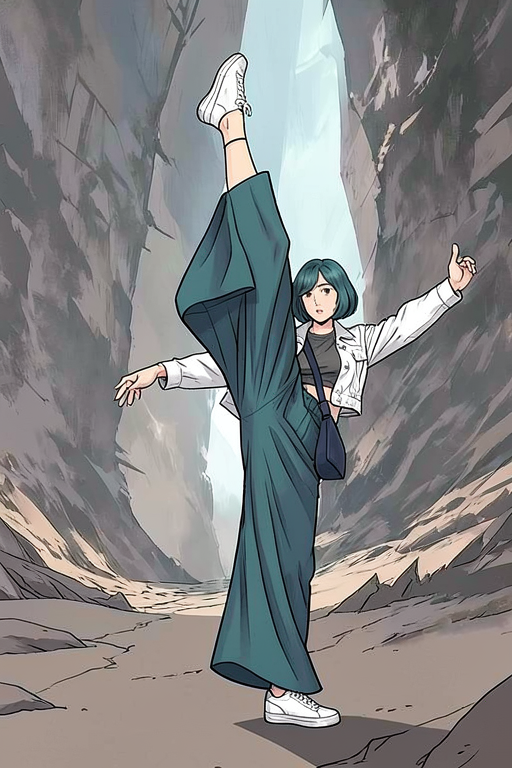
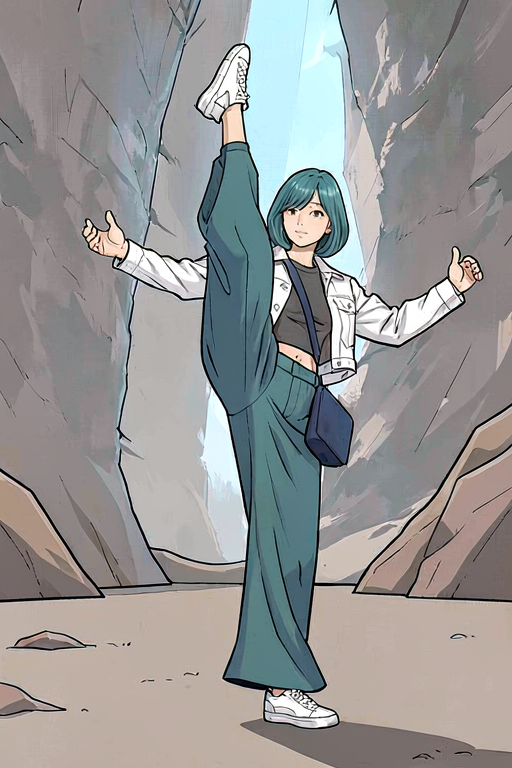
docs: approve 50-step flux character cut

diff --git a/docs/assets/part-07/chapter-05/p7_5_3_flux2_storyboard_character.py b/docs/assets/part-07/chapter-05/p7_5_3_flux2_storyboard_character.py
@@ -59,7 +59,7 @@ def parse_args() -> argparse.Namespace:
     parser.add_argument("--cache-dir", type=Path, default=DEFAULT_CACHE_DIR)
     parser.add_argument("--output-dir", type=Path, default=DEFAULT_OUTPUT_DIR)
     parser.add_argument("--seed", type=int, default=5413)
-    parser.add_argument("--steps", type=int, default=8)
+    parser.add_argument("--steps", type=int, default=50)
     parser.add_argument("--width", type=int, default=512)
     parser.add_argument("--height", type=int, default=768)
     return parser.parse_args()

diff --git a/management/release-notes/sections/part-07/P7-5.3.md b/management/release-notes/sections/part-07/P7-5.3.md
@@ -5,7 +5,7 @@
 
 ### v2026.08.07
 
-- 승인 구조 정리: 텍스트 전용 Animagine XL 4.0 스토리보드(`832×1216`, 28 step, CFG 5.0, seed `5413`)와 그 파생 guide를 장면 기준으로 승인했다. 이어 Apache-2.0 FLUX.2 Klein 4B에 이 스토리보드·P7-5.2 얼굴·전신 복장 기준을 세 이미지 입력으로 주고, `512×768`·8 step·seed `5413`·sequential CPU offload에서 생성한 캐릭터 컷을 승인했다(48.8초, peak 3.37 GiB). 협곡·열린 바닥·수직 든 다리·지지발·두 팔, 턱선 길이 청록 단발, 흰 재킷·청록 넓은 바지·흰 운동화·남색 가방이 함께 읽힌다. 든 다리의 드러난 발목은 넓은 바지의 자연스러운 동작 연출로 수용했다. 승인 PNG와 실행 JSON만 공개 자산으로 남기고, 4-step 비교와 미승인 ControlNet·Posecode·SCAIL·참조 후보 자산은 제거했다. 그 실패·보류 판단은 아래 항목의 기록으로만 유지한다.
+- 승인 갱신: 텍스트 전용 Animagine XL 4.0 스토리보드(`832×1216`, 28 step, CFG 5.0, seed `5413`)와 그 파생 guide를 장면 기준으로 승인했다. 이어 Apache-2.0 FLUX.2 Klein 4B에 이 스토리보드·P7-5.2 얼굴·전신 복장 기준을 세 이미지 입력으로 주고, `512×768`·50 step·seed `5413`·sequential CPU offload에서 생성한 캐릭터 컷을 최종 승인했다(285.8초, peak 3.36 GiB). 협곡·열린 바닥·수직 든 다리·지지발·두 팔, 턱선 길이 청록 단발, 흰 재킷·청록 넓은 바지·흰 운동화·남색 가방이 함께 읽힌다. 8-step 승인본과 비교해 선화·얼굴·단발·가방·넓은 바지 형태가 더 안정적이어서 교체했으며, 든 다리의 드러난 발목은 넓은 바지의 자연스러운 동작 연출로 수용했다. 승인 PNG와 실행 JSON만 공개 자산으로 남기고, 4-step·8-step 비교와 미승인 ControlNet·Posecode·SCAIL·참조 후보 자산은 제거했다. 그 실패·보류 판단은 아래 항목의 기록으로만 유지한다.
 - SCAIL 로컬 실행 기록: SCAIL-Preview Q2 GGUF와 CPU offload를 8 GB GPU에서 `352×512`·5 frame·4 step으로 실제 실행했다. model patch·text encode·sampling·VAE decode가 38.78초, peak allocated 6.09 GiB·reserved 6.31 GiB로 완료되어 실행 가능성만 확인했다. 다만 전신 기준 이미지와 정지 골격 한 장(공식 pose 영상 아님)의 축약 입력에서는 협곡·수직 든 다리·수평 양팔이 재현되지 않아 미통과였다. PNG 다섯 장은 삭제하고 입력 기록만 남겼다. 공식 `512p`·긴 pose 영상 조건과 다르므로 모델 일반 실패로 단정하지 않되, 현 8 GB 축약 계약은 승인하지 않고 재실행하지 않는다. 후속은 리그·skin·헤어·의상 mesh를 갖춘 3D 자산처럼 입력 계약이 달라질 때만 검토한다.
 - 경로 경고 정리: 본문이 현재 추적 자산에 없는 `p7-5-3-guide-adherence-benchmark/` 폴더를 상대 링크로 가리키던 문장을 제거하고, 공개 자산에는 승인 스토리보드·파생 guide PNG만 유지한다는 설명으로 바꿨다.
 - 반복 재실험 경고: 본문 체크리스트에 미통과 `backbone + guide 종류/출처 + 해상도 계약`을 seed·step·강도만 바꿔 반복하지 않도록 명시했다. 재개에는 실패 원인을 바꿀 새 가설과 입력 계약 변화, 그리고 실행 기록의 차이 설명이 필요하다.

diff --git a/docs/parts/part-07/chapter-05/section-03.md b/docs/parts/part-07/chapter-05/section-03.md
@@ -44,7 +44,7 @@ FLUX.2 Klein 4B에는 다음 세 이미지를 순서대로 넣는다.
 | 얼굴 기준 | 청록 단발과 얼굴 특징 |
 | 전신 복장 기준 | 흰 재킷, 청록 넓은 바지, 흰 운동화, 남색 크로스백 |
 
-이 계약에서 `512 x 768`, 8 step, seed `5413`, sequential CPU offload로 만든 결과를 사람 검수로 승인했다. 긴 뒷머리 대신 턱선 길이 단발이 읽히며, 들어 올린 다리의 넓은 바지 주름과 드러난 발목은 동작에 따른 자연스러운 연출로 유지한다. 협곡·지지발·두 팔·수직으로 든 다리도 장면 기준과 함께 읽힌다.
+이 계약에서 `512 x 768`, 50 step, seed `5413`, sequential CPU offload로 만든 결과를 사람 검수로 승인했다. 긴 뒷머리 대신 턱선 길이 단발이 읽히며, 들어 올린 다리의 넓은 바지 주름과 드러난 발목은 동작에 따른 자연스러운 연출로 유지한다. 협곡·지지발·두 팔·수직으로 든 다리도 장면 기준과 함께 읽힌다.
 
 ![승인한 FLUX.2 Klein 4B 캐릭터 컷](../../../assets/part-07/chapter-05/p7-5-3-flux2-klein-storyboard-character-approved.png)
 
@@ -53,10 +53,10 @@ FLUX.2 Klein 4B에는 다음 세 이미지를 순서대로 넣는다.
 ```bash
 python docs/assets/part-07/chapter-05/p7_5_3_flux2_storyboard_character.py \
   --cache-dir .tmp/p7-5-3-flux2-klein-cache \
-  --steps 8 --seed 5413
+  --steps 50 --seed 5413
 ```
 
-실행 기록에는 입력 경로, prompt, seed, 해상도, step, 실행 시간, peak VRAM을 남긴다. 이 승인 표본은 48.8초, peak `3.37 GiB`였다. 다른 카메라·동작·얼굴 방향에서 같은 수준의 일관성이 자동으로 보장되는 것은 아니므로, 컷마다 다시 검수한다.
+실행 기록에는 입력 경로, prompt, seed, 해상도, step, 실행 시간, peak VRAM을 남긴다. 이 승인 표본은 285.8초, peak `3.36 GiB`였다. 다른 카메라·동작·얼굴 방향에서 같은 수준의 일관성이 자동으로 보장되는 것은 아니므로, 컷마다 다시 검수한다.
 
 ## 승인 뒤에도 사람 검수를 남긴다
 
